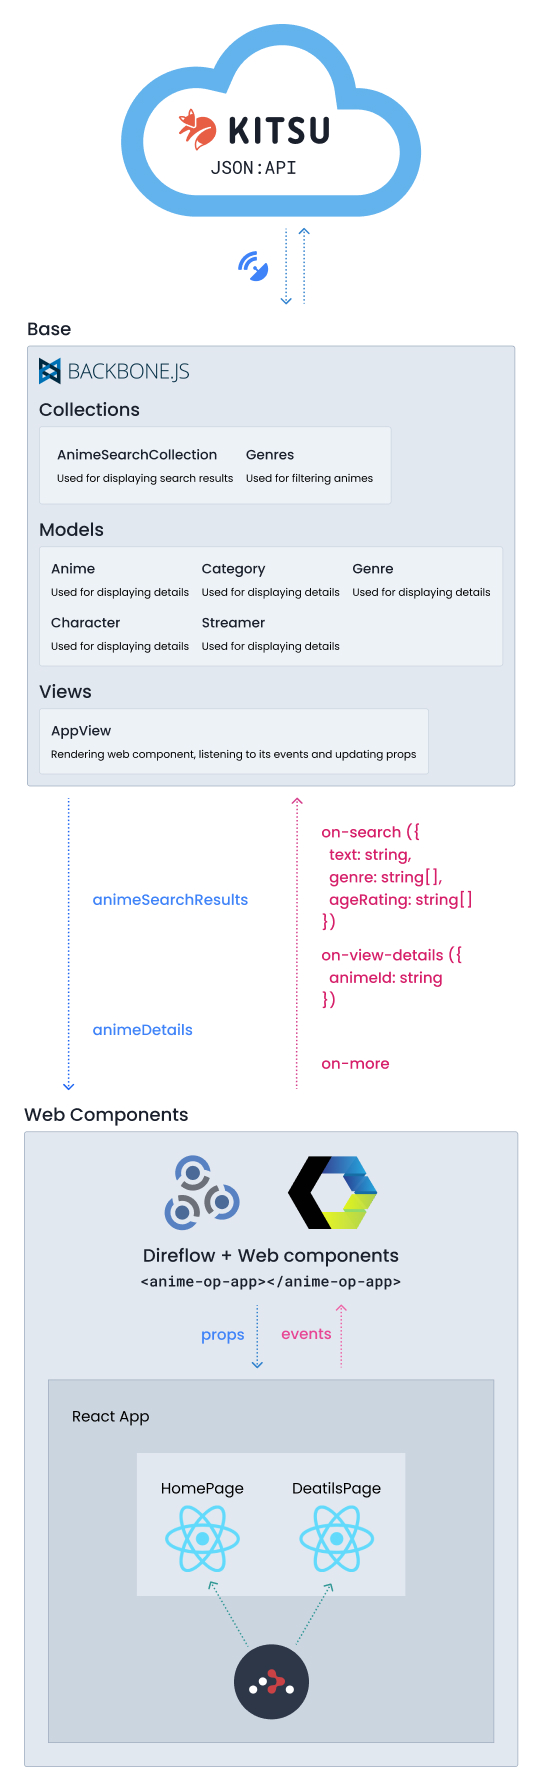
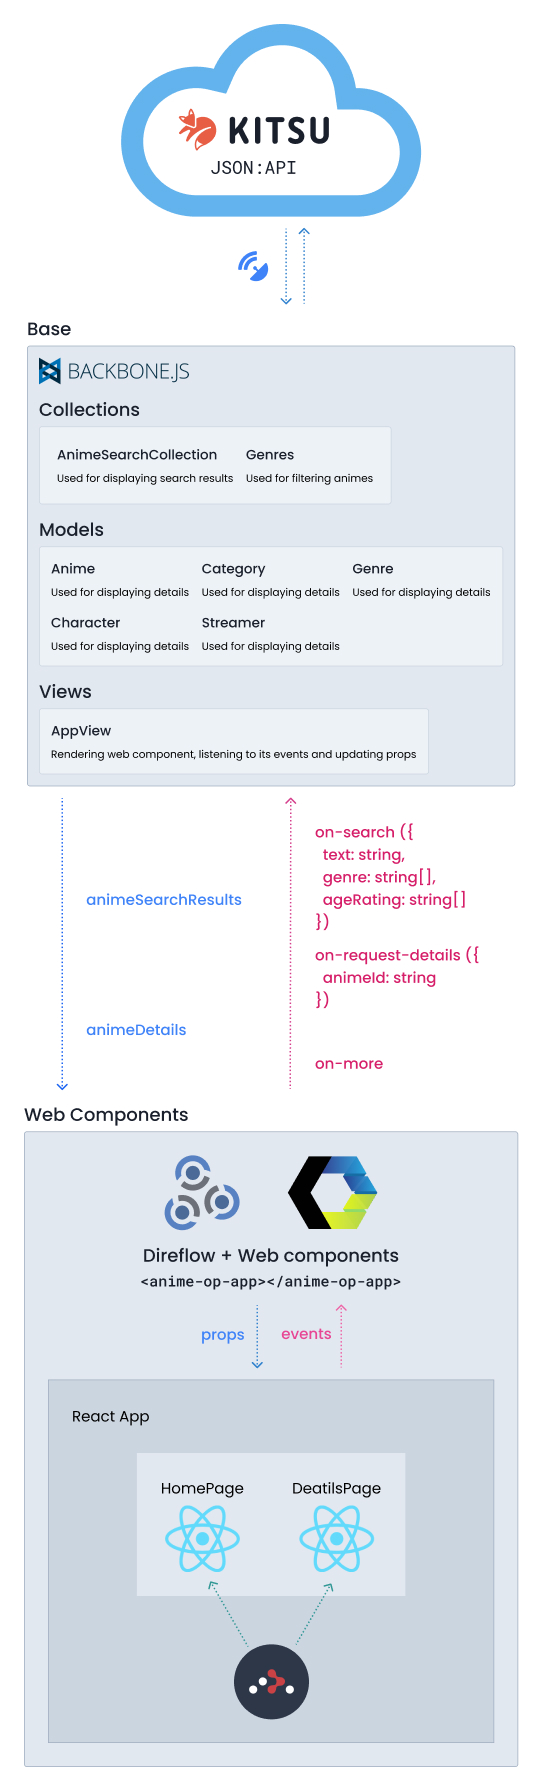
docs: Update docs/architecture.md
- Add React component hierarchy

diff --git a/docs/architecture.md b/docs/architecture.md
@@ -19,8 +19,6 @@ Handles:
 
 ### Models
 
-* AnimeDetails
-
 ```typescript
 type AnimeDetails = {
   id: string
@@ -45,8 +43,6 @@ type AnimeDetails = {
 };
 ```
 
-* Genre
-
 ```typescript
 type Genre = {
   id: string,
@@ -57,8 +53,6 @@ type Genre = {
 };
 ```
 
-* Category
-
 ```typescript
 type Category = {
   id: string,
@@ -68,8 +62,6 @@ type Category = {
   }
 };
 ```
-
-* Character
 
 ```typescript
 type Character = {
@@ -88,8 +80,6 @@ type Character = {
 };
 ```
 
-* Streamer
-
 ```typescript
 type Streamer = {
   id: string,
@@ -101,8 +91,6 @@ type Streamer = {
 ```
 
 ### Collections
-
-* AnimeSearchResults
 
 ```typescript
 type AnimeSearchResults = {
@@ -118,8 +106,6 @@ type AnimeSearchResults = {
 };
 ```
 
-* Genres
-
 ```typescript
 type Genres = Genre[];
 ```
@@ -128,19 +114,17 @@ type Genres = Genre[];
 
 The web components part consists of an AMD compiled web component called `<anime-op-app>`:
   * Handles UI events
-  * Handles navigation with React Router
+  * Handles navigation
 
-### Development
-
-This is considered a separate module, it has it's own dependencies and can be run separately.
-
-### Build
+This is considered a separate module, it has it's own dependencies and is developed separately.
 
 For usage in the _Base App_ it is build as an AMD module which registers the web component.
 
+For both development and build [Direflow](https://direflow.io/get-started) does the trick.
+
 ### Component Hierarchy
 
-WIP
+![Component Hierarchy Outline](./img/component-hierarchy.jpg)
 
 ## Integration
 
@@ -149,6 +133,6 @@ App integration _(base, web components, and API)_ will happen following these st
 * On the _web component_ an event that needs external data is triggered
   * Due to an user interaction
   * From navigating
-* The triggered event can be 'on-search', 'on-more' or 'on-details'
+* The triggered event can be 'on-search', 'on-more' or 'on-request-details'
 * That event is listened on the _AppView_ on the _Base App_
 * Required data is retrieved from the _API_ and updated for the _web component_
